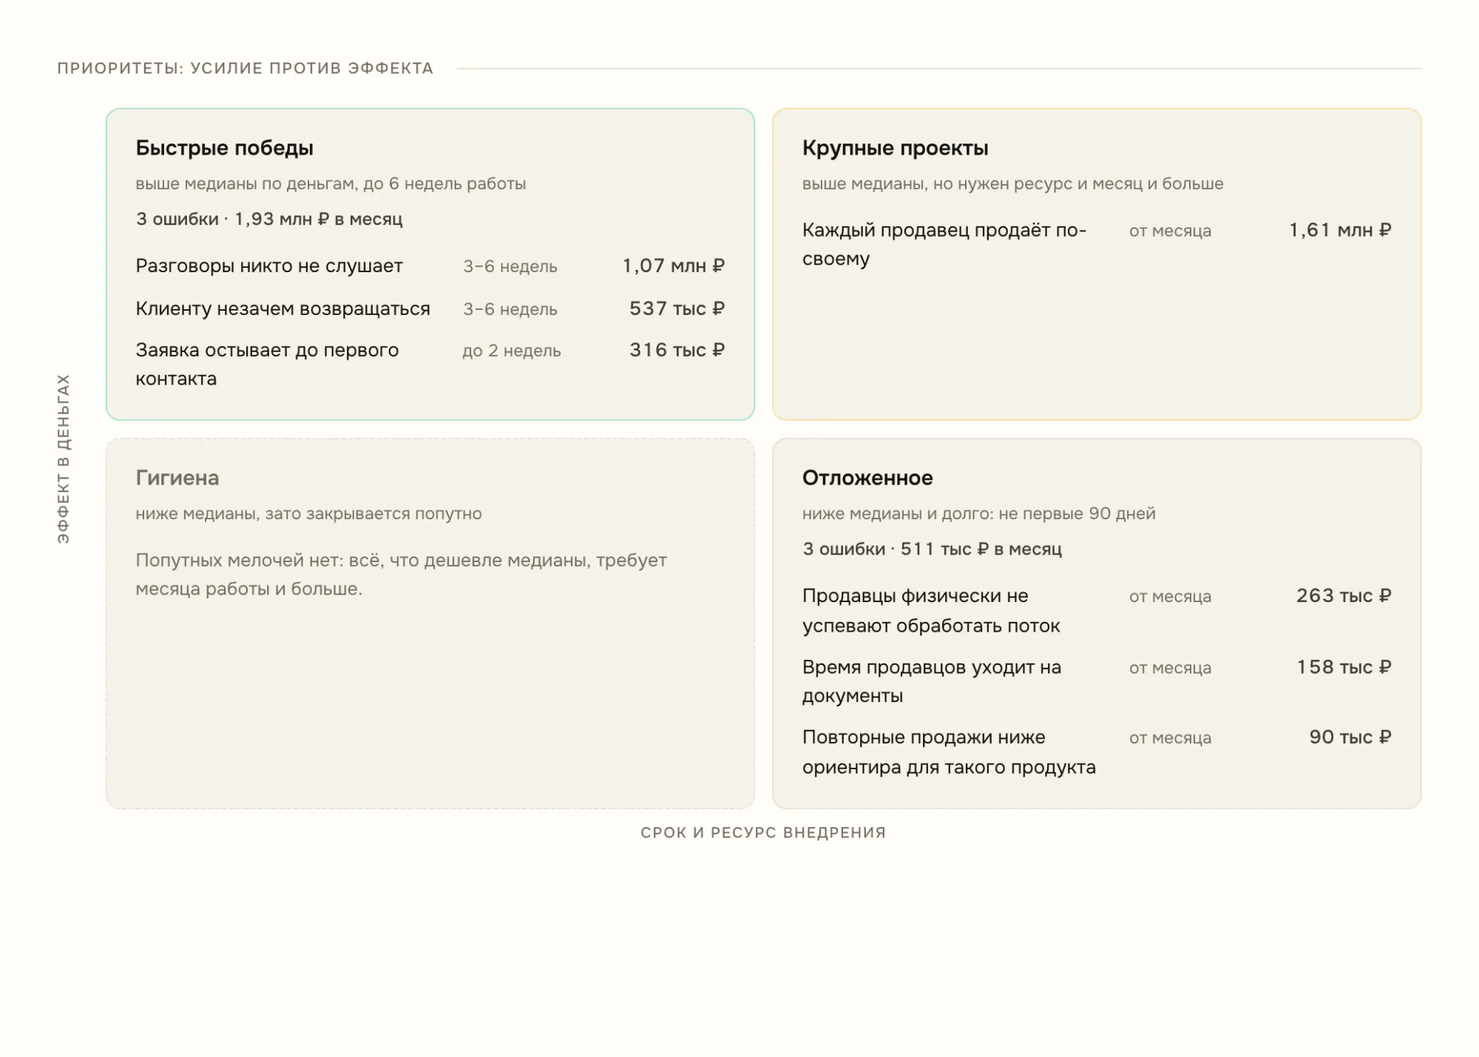
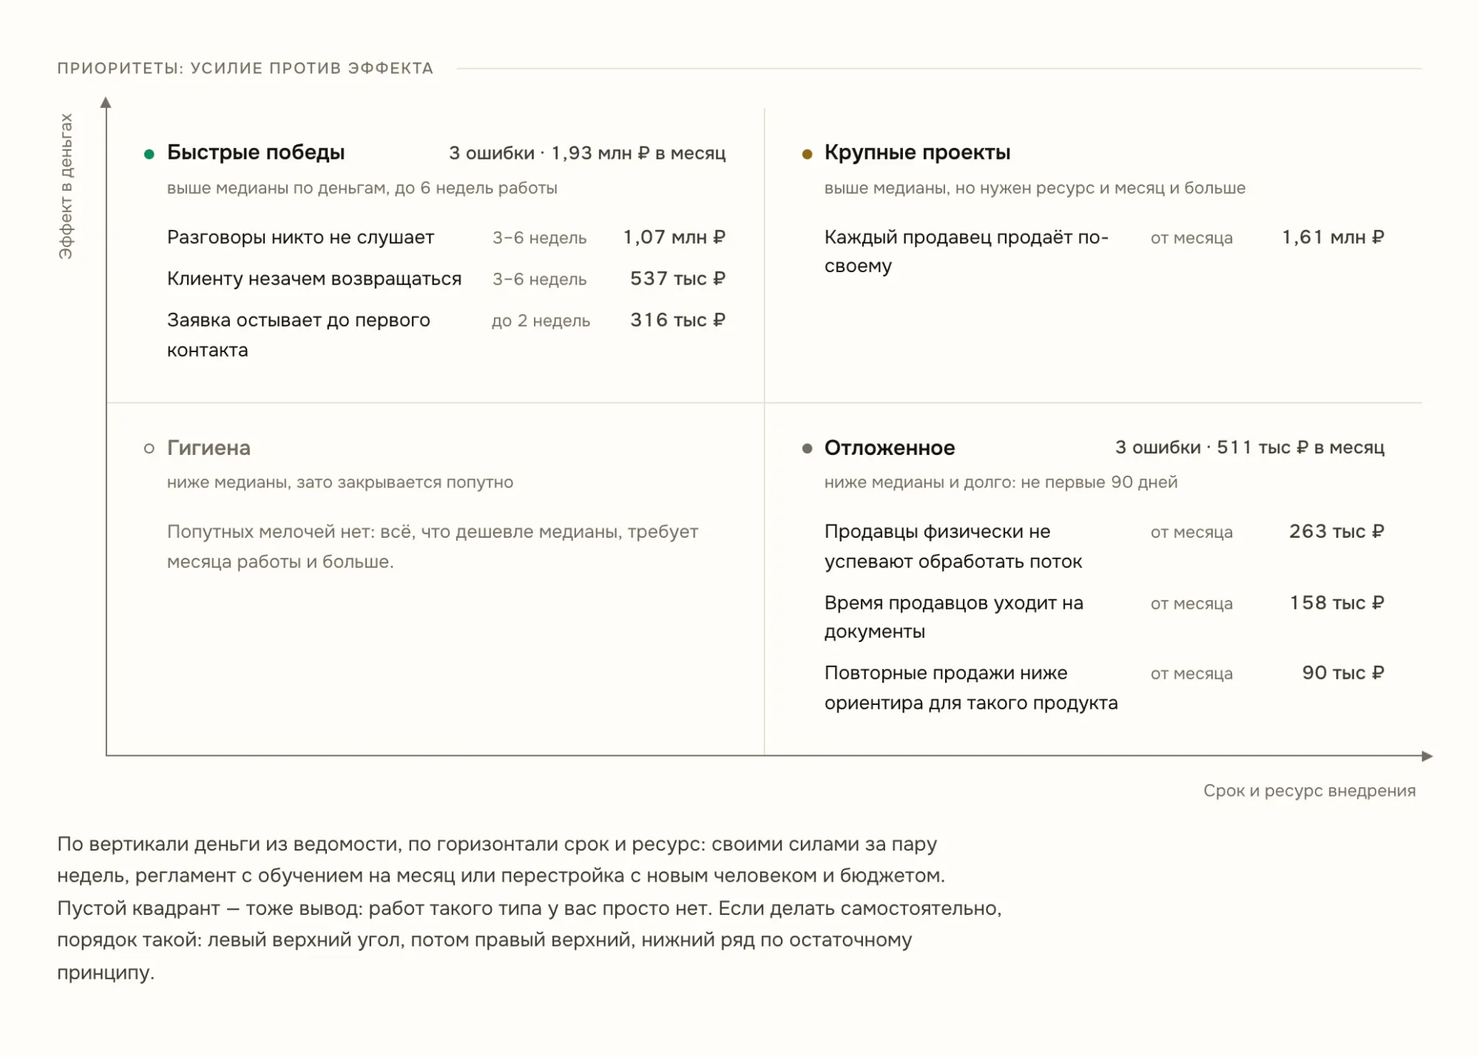
Отчёт МРТ на главной: кадры под телефон, выноски, матрица приоритетов осями
- Телефон: отдельные снимки отчёта на ширине 390 — текст в натуральную величину
- Одна выноска на кадр и подпись под вкладкой: куда смотреть и сколько это стоит
- Матрица в отчёте: оси и крест из линий вместо четырёх цветных коробок
- «Внедрение»: кадр со шкалы недель и начала волн; у первой волны нет «0 ₽»
- «чиним первый контакт, закрытие и повторные продажи» вместо «и … и …»

diff --git a/index.html b/index.html
@@ -650,17 +650,25 @@ main{counter-reset:sec}
 .rpt-nav button:focus-visible{outline:none}
 .rpt-nav button:focus-visible b{text-decoration:underline;text-decoration-thickness:1px;text-underline-offset:5px}
 /* разворот — картинка, а не ссылка: две версии под тему, грузится только видимая */
-.rpt-view{display:grid;align-self:start;margin:0;border:1px solid var(--rule-2);border-radius:16px;overflow:hidden;background:var(--paper)}
-.rpt-view img{grid-area:1/1;display:block;width:100%;height:auto;opacity:0;transition:opacity .45s var(--ease)}
-.rpt-view img.l{display:none}
-html[data-theme="light"] .rpt-view img.d{display:none}
-html[data-theme="light"] .rpt-view img.l{display:block}
-.rpt-view img.is-cur{opacity:1}
+.rpt-view{position:relative;display:grid;align-self:start;margin:0;border:1px solid var(--rule-2);border-radius:16px;overflow:hidden;background:var(--paper)}
+.rpt-view picture{grid-area:1/1;display:block;opacity:0;transition:opacity .45s var(--ease)}
+.rpt-view picture img{display:block;width:100%;height:auto}
+.rpt-view picture.l{display:none}
+html[data-theme="light"] .rpt-view picture.d{display:none}
+html[data-theme="light"] .rpt-view picture.l{display:block}
+.rpt-view picture.is-cur{opacity:1}
+/* выноска: одна на разворот, как на «Технологии»; та же стрелка стоит у подписи активной вкладки */
+.rpt-pin{position:absolute;z-index:2;width:24px;height:24px;margin:-12px 0 0 -12px;border-radius:50%;background:var(--ink);color:var(--bg);font-size:13px;line-height:1;display:flex;align-items:center;justify-content:center;pointer-events:none;opacity:0;transform:scale(.6);transition:opacity .25s var(--ease),transform .4s var(--ease)}
+.rpt-pin.is-cur{opacity:1;transform:none;transition-delay:.25s}
+.rpt-nav button[aria-selected="true"] em::before{content:"→";display:inline-flex;align-items:center;justify-content:center;width:18px;height:18px;margin-right:8px;border-radius:50%;background:var(--ink);color:var(--bg);font-size:11px;vertical-align:1px}
+.rpt-cap{display:none}
 @media(min-width:981px){.rpt{grid-template-columns:25% 75%;gap:0}.rpt-nav{padding-right:var(--cg)}}
+@media(max-width:600px){.rpt-pin{display:none}}
 @media(max-width:980px){
   .rpt-nav{flex-direction:row;gap:8px;overflow-x:auto;border-top:0;scrollbar-width:none}
   .rpt-nav button{flex:none;display:block;border:1px solid var(--rule-2);border-radius:8px;padding:9px 14px}
   .rpt-nav button::after{display:none}
+  .rpt-cap{display:block;margin-top:14px;font-size:14.5px;line-height:1.5;color:var(--ink-2)}
   .rpt-nav button span,.rpt-nav button em{display:none}
   .rpt-nav button[aria-selected="true"]{background:var(--ink);border-color:var(--ink)}
   .rpt-nav button[aria-selected="true"] b{color:var(--bg)}
@@ -836,21 +844,26 @@ html[data-theme="light"] .rpt-view img.l{display:block}
     </div>
     <div class="rpt rv">
       <div class="rpt-nav" id="rptNav" role="tablist" aria-label="Разделы отчёта">
-        <button type="button" role="tab" aria-selected="true" aria-controls="rptView"><span>02</span><b>Резюме</b><em>Главный вывод, недополученная прибыль и сколько вернётся за 90 дней</em></button>
-        <button type="button" role="tab" aria-selected="false" aria-controls="rptView" tabindex="-1"><span>05</span><b>Ведомость потерь</b><em>Где сгорает прибыль, этап за этапом, с арифметикой каждой строки</em></button>
-        <button type="button" role="tab" aria-selected="false" aria-controls="rptView" tabindex="-1"><span>10</span><b>Что делать</b><em>Каждая ошибка разобрана до инструкции и оценена в рублях</em></button>
-        <button type="button" role="tab" aria-selected="false" aria-controls="rptView" tabindex="-1"><span>11</span><b>Внедрение</b><em>90 дней, четыре волны, приёмка по цифрам</em></button>
+        <button type="button" role="tab" aria-selected="true" aria-controls="rptView"><span>02</span><b>Резюме</b><em>Главный вывод одной фразой и цена вопроса: 4,05 млн ₽ в месяц, из них 2,63 млн возвращаются за 90 дней.</em></button>
+        <button type="button" role="tab" aria-selected="false" aria-controls="rptView" tabindex="-1"><span>05</span><b>Ведомость потерь</b><em>Крупнейшая потеря — переговоры и закрытие, 2,69 млн ₽ в месяц. Зелёным — что из неё вернётся за 90 дней.</em></button>
+        <button type="button" role="tab" aria-selected="false" aria-controls="rptView" tabindex="-1"><span>10</span><b>Что делать</b><em>Начинать с быстрых побед: три ошибки на 1,93 млн ₽ в месяц, каждая — до шести недель работы.</em></button>
+        <button type="button" role="tab" aria-selected="false" aria-controls="rptView" tabindex="-1"><span>11</span><b>Внедрение</b><em>Каждая волна принимается по цифрам. Вторая чинит первый контакт, закрытие и повторные продажи: +1,44 млн ₽ в месяц.</em></button>
       </div>
       <div class="rpt-view" id="rptView" role="tabpanel">
-        <img class="d is-cur" data-i="0" src="/media/report-summary-dark.webp" width="2000" height="1429" loading="lazy" alt="Резюме отчёта: главный вывод, недополученная прибыль 4,05 млн ₽ в месяц и потенциал возврата за 90 дней">
-        <img class="l is-cur" data-i="0" src="/media/report-summary-light.webp" width="2000" height="1429" loading="lazy" alt="Резюме отчёта: главный вывод, недополученная прибыль 4,05 млн ₽ в месяц и потенциал возврата за 90 дней">
-        <img class="d" data-i="1" src="/media/report-ledger-dark.webp" width="2000" height="1429" loading="lazy" alt="Ведомость потерь: валовая прибыль по этапам воронки сейчас и при ориентире профиля">
-        <img class="l" data-i="1" src="/media/report-ledger-light.webp" width="2000" height="1429" loading="lazy" alt="Ведомость потерь: валовая прибыль по этапам воронки сейчас и при ориентире профиля">
-        <img class="d" data-i="2" src="/media/report-fix-dark.webp" width="2000" height="1429" loading="lazy" alt="Что делать: ошибки по матрице усилия и эффекта с суммой в рублях">
-        <img class="l" data-i="2" src="/media/report-fix-light.webp" width="2000" height="1429" loading="lazy" alt="Что делать: ошибки по матрице усилия и эффекта с суммой в рублях">
-        <img class="d" data-i="3" src="/media/report-plan-dark.webp" width="2000" height="1429" loading="lazy" alt="Внедрение: 90 дней, четыре волны с приёмкой по критериям">
-        <img class="l" data-i="3" src="/media/report-plan-light.webp" width="2000" height="1429" loading="lazy" alt="Внедрение: 90 дней, четыре волны с приёмкой по критериям">
+        <picture class="d is-cur" data-i="0"><source media="(max-width:600px)" srcset="/media/report-summary-dark-m.webp" width="1170" height="1671"><img src="/media/report-summary-dark.webp" width="2000" height="1429" loading="lazy" alt="Резюме отчёта: главный вывод, недополученная прибыль 4,05 млн ₽ в месяц и потенциал возврата за 90 дней"></picture>
+        <picture class="l is-cur" data-i="0"><source media="(max-width:600px)" srcset="/media/report-summary-light-m.webp" width="1170" height="1671"><img src="/media/report-summary-light.webp" width="2000" height="1429" loading="lazy" alt="Резюме отчёта: главный вывод, недополученная прибыль 4,05 млн ₽ в месяц и потенциал возврата за 90 дней"></picture>
+        <picture class="d" data-i="1"><source media="(max-width:600px)" srcset="/media/report-ledger-dark-m.webp" width="1170" height="1671"><img src="/media/report-ledger-dark.webp" width="2000" height="1429" loading="lazy" alt="Ведомость потерь: валовая прибыль по этапам воронки сейчас и при ориентире профиля"></picture>
+        <picture class="l" data-i="1"><source media="(max-width:600px)" srcset="/media/report-ledger-light-m.webp" width="1170" height="1671"><img src="/media/report-ledger-light.webp" width="2000" height="1429" loading="lazy" alt="Ведомость потерь: валовая прибыль по этапам воронки сейчас и при ориентире профиля"></picture>
+        <picture class="d" data-i="2"><source media="(max-width:600px)" srcset="/media/report-fix-dark-m.webp" width="1170" height="1671"><img src="/media/report-fix-dark.webp" width="2000" height="1429" loading="lazy" alt="Что делать: матрица приоритетов — ошибки по эффекту в деньгах и сроку внедрения"></picture>
+        <picture class="l" data-i="2"><source media="(max-width:600px)" srcset="/media/report-fix-light-m.webp" width="1170" height="1671"><img src="/media/report-fix-light.webp" width="2000" height="1429" loading="lazy" alt="Что делать: матрица приоритетов — ошибки по эффекту в деньгах и сроку внедрения"></picture>
+        <picture class="d" data-i="3"><source media="(max-width:600px)" srcset="/media/report-plan-dark-m.webp" width="1170" height="1671"><img src="/media/report-plan-dark.webp" width="2000" height="1429" loading="lazy" alt="Внедрение: 12 недель, четыре волны, приёмка каждой по критериям"></picture>
+        <picture class="l" data-i="3"><source media="(max-width:600px)" srcset="/media/report-plan-light-m.webp" width="1170" height="1671"><img src="/media/report-plan-light.webp" width="2000" height="1429" loading="lazy" alt="Внедрение: 12 недель, четыре волны, приёмка каждой по критериям"></picture>
+        <span class="rpt-pin is-cur" data-i="0" style="left:2.12%;top:62.91%" aria-hidden="true">→</span>
+        <span class="rpt-pin" data-i="1" style="left:44.06%;top:38.59%" aria-hidden="true">→</span>
+        <span class="rpt-pin" data-i="2" style="left:28.57%;top:14.54%" aria-hidden="true">→</span>
+        <span class="rpt-pin" data-i="3" style="left:75.46%;top:55.5%" aria-hidden="true">→</span>
       </div>
+      <p class="rpt-cap" id="rptCap">Главный вывод одной фразой и цена вопроса: 4,05 млн ₽ в месяц, из них 2,63 млн возвращаются за 90 дней.</p>
     </div>
     <div class="snap-foot rv">
       <p>Пример на демо-данных: компания «Демо-Опт» выдуманная, цифры собраны для показа. На вашем МРТ каждая строка считается по вашим данным.</p>
@@ -1213,8 +1226,8 @@ html[data-theme="light"] .rpt-view img.l{display:block}
   /* отчёт МРТ: разделы-вкладки, стрелки переключают; у каждого раздела две картинки — ночная и дневная */
   (function(){
     var nav=document.getElementById('rptNav');if(!nav)return;
-    var tabs=$$('button',nav),imgs=$$('#rptView img');
-    function sel(i,focus){tabs.forEach(function(t,k){t.setAttribute('aria-selected',String(k===i));t.tabIndex=k===i?0:-1;});imgs.forEach(function(im){im.classList.toggle('is-cur',+im.dataset.i===i);});if(focus)tabs[i].focus();}
+    var tabs=$$('button',nav),pics=$$('#rptView picture, #rptView .rpt-pin'),cap=document.getElementById('rptCap');
+    function sel(i,focus){tabs.forEach(function(t,k){t.setAttribute('aria-selected',String(k===i));t.tabIndex=k===i?0:-1;});pics.forEach(function(p){p.classList.toggle('is-cur',+p.dataset.i===i);});if(cap)cap.textContent=tabs[i].querySelector('em').textContent;if(focus)tabs[i].focus();}
     tabs.forEach(function(t,i){
       t.addEventListener('click',function(){sel(i);});
       t.addEventListener('keydown',function(e){var d=(e.key==='ArrowDown'||e.key==='ArrowRight')?1:(e.key==='ArrowUp'||e.key==='ArrowLeft')?-1:0;if(!d)return;e.preventDefault();sel((i+d+tabs.length)%tabs.length,true);});

diff --git a/diagnostic/index.html b/diagnostic/index.html
@@ -809,27 +809,34 @@ body:not(.cl-unlocked) .gate{display:grid}
 .fx-top-op{flex:0 0 26px;display:flex;align-items:center;justify-content:center;color:var(--ink-3);font-size:14px}
 @media(max-width:900px){.fx-tree{flex-direction:column}.fx-top-op{flex:none;height:22px}}
 
-/* матрица приоритетов */
-.fx-prio{display:grid;grid-template-columns:22px minmax(0,1fr);grid-template-rows:auto 22px;gap:12px}
-.fx-prio-y{grid-row:1;writing-mode:vertical-rl;transform:rotate(180deg);text-align:center;font:500 10.5px/1 var(--ui);letter-spacing:.09em;text-transform:uppercase;color:var(--ink-3)}
-.fx-prio-x{grid-column:2;text-align:center;font:500 10.5px/1 var(--ui);letter-spacing:.09em;text-transform:uppercase;color:var(--ink-3)}
-.fx-prio-g{display:grid;grid-template-columns:minmax(0,1fr) minmax(0,1fr);gap:12px}
-.fx-pq{border:1px solid var(--rule);border-radius:10px;padding:18px 20px;background:var(--paper);min-height:132px}
-.fx-pq.q1{border-color:rgba(52,211,153,.42)}
-.fx-pq.q2{border-color:rgba(251,191,36,.34)}
-.fx-pq-h{margin-bottom:14px}
-.fx-pq-h b{display:block;font:600 15px/1.3 var(--ui);color:#fff}
-.fx-pq-h span{display:block;font-size:12px;line-height:1.5;color:var(--ink-3);margin-top:5px}
-.fx-pq ul{list-style:none;margin:0;padding:0;display:grid;gap:9px}
-.fx-pq li{display:grid;grid-template-columns:minmax(0,1fr) 84px 88px;gap:12px;align-items:baseline;font-size:13.5px;line-height:1.5;color:var(--ink)}
+/* матрица приоритетов: настоящие 2×2 — две оси и крест из линий, без коробок; цвет только у метки квадранта */
+.fx-prio{display:grid;grid-template-columns:22px minmax(0,1fr);grid-template-rows:auto 30px;column-gap:12px}
+.fx-prio-y{grid-row:1;writing-mode:vertical-rl;transform:rotate(180deg);text-align:end;padding-bottom:4px;font:400 12px/1 var(--ui);color:var(--ink-3)}
+.fx-prio-x{grid-column:2;align-self:end;text-align:right;padding-right:4px;font:400 12px/1 var(--ui);color:var(--ink-3)}
+.fx-prio-g{position:relative;display:grid;grid-template-columns:minmax(0,1fr) minmax(0,1fr);border-left:1px solid var(--ink-3);border-bottom:1px solid var(--ink-3)}
+.fx-prio-g::before{content:"";position:absolute;left:-5px;top:-8px;border:4.5px solid transparent;border-top:0;border-bottom:8px solid var(--ink-3)}
+.fx-prio-g::after{content:"";position:absolute;right:-8px;bottom:-5px;border:4.5px solid transparent;border-right:0;border-left:8px solid var(--ink-3)}
+.fx-pq{padding:22px 26px 26px;min-height:132px}
+.fx-pq.q1,.fx-pq.q3{border-right:1px solid var(--rule)}
+.fx-pq.q1,.fx-pq.q2{border-bottom:1px solid var(--rule)}
+.fx-pq-h{display:grid;grid-template-columns:minmax(0,1fr) auto;column-gap:16px;align-items:baseline;margin-bottom:16px}
+.fx-pq-h b{display:flex;align-items:center;gap:9px;font:600 15px/1.3 var(--ui);color:#fff}
+.fx-pq-h b::before{content:"";flex:none;width:7px;height:7px;border-radius:50%;background:var(--ink-3)}
+.fx-pq.q1 .fx-pq-h b::before{background:var(--ok)}
+.fx-pq.q2 .fx-pq-h b::before{background:var(--warn)}
+.fx-pq-h em{grid-column:2;grid-row:1;font-style:normal;font:500 13px/1.3 var(--ui);color:var(--ink-2);white-space:nowrap;font-variant-numeric:tabular-nums}
+.fx-pq-h span{grid-column:1/-1;display:block;font-size:12px;line-height:1.5;color:var(--ink-3);margin:5px 0 0 16px}
+.fx-pq ul{list-style:none;margin:0 0 0 16px;padding:0;display:grid;gap:9px}
+.fx-pq li{display:grid;grid-template-columns:minmax(0,1fr) 72px 80px;gap:12px;align-items:baseline;font-size:13.5px;line-height:1.5;color:var(--ink)}
 .fx-pq li i{font-style:normal;font-size:12px;color:var(--ink-3);white-space:nowrap}
 .fx-pq li b{font-weight:500;color:var(--ink-2);white-space:nowrap;font-variant-numeric:tabular-nums;text-align:right}
-.fx-pq-h em{display:block;font-style:normal;font:500 12.5px/1.4 var(--ui);color:var(--ink-2);margin-top:8px;font-variant-numeric:tabular-nums}
-.fx-pq.off{border-style:dashed;border-color:var(--rule)}
 .fx-pq.off .fx-pq-h b{color:var(--ink-3)}
-.fx-pq-none{font-size:13px;line-height:1.55;color:var(--ink-3);max-width:44ch}
+.fx-pq.off .fx-pq-h b::before{background:none;box-shadow:inset 0 0 0 1px var(--ink-3)}
+.fx-pq-none{font-size:13px;line-height:1.55;color:var(--ink-3);max-width:44ch;margin:0 0 0 16px}
 @media(max-width:560px){.fx-pq li{grid-template-columns:minmax(0,1fr) auto;gap:4px 12px}.fx-pq li i{grid-column:1/-1;order:3}}
-@media(max-width:820px){.fx-prio{grid-template-columns:minmax(0,1fr);grid-template-rows:auto auto}.fx-prio-y{display:none}.fx-prio-x{grid-column:1}.fx-prio-g{grid-template-columns:minmax(0,1fr)}}
+@media(max-width:820px){.fx-prio{grid-template-columns:minmax(0,1fr);grid-template-rows:auto}.fx-prio-y,.fx-prio-x{display:none}
+  .fx-prio-g{grid-template-columns:minmax(0,1fr);border:0;border-top:1px solid var(--rule)}.fx-prio-g::before,.fx-prio-g::after{display:none}
+  .fx-pq{min-height:0;padding:20px 0;border-right:0!important;border-bottom:1px solid var(--rule)}}
 
 /* разбор ошибок */
 .fx-fixes{display:grid;gap:18px}
@@ -4175,7 +4182,7 @@ const Waves = {
     const effNote = n => {
       const names = {contact:'первый контакт', close:'закрытие', repeat:'повторные продажи', price:'цену', lead:'поток заявок'};
       const on = [...new Set(dr(n).map(d => names[d.stage]))];
-      return on.length ? 'за счёт того, что чиним ' + on.join(' и ') : '';
+      return on.length ? 'за счёт того, что чиним ' + (on.length > 1 ? on.slice(0, -1).join(', ') + ' и ' + on[on.length - 1] : on[0]) : '';
     };
 
     W.push({n:1, wk:[1,2], title:'Архитектура и P&L-модель',
@@ -5216,7 +5223,7 @@ const Final = {
       ${W.map(w => `<div class="fx-wl"><b>0${w.n}</b>${w.title.split(':')[0]}</div><div class="fx-gcell"><div class="fx-gbar" style="grid-column:${w.wk[0]} / ${w.wk[1] + 1}"><span>недели ${w.wk[0]}–${w.wk[1]}</span></div></div>`).join('')}</div>
       <div class="fx-gleg"><i></i>приёмка волны по критериям</div>`;
     const card = w => `<div class="fx-wave">
-      <div class="fx-wtop"><div class="fx-wno"><b>Волна ${w.n}</b> · недели ${w.wk[0]}–${w.wk[1]}</div><div class="fx-weff">${w.eff > 0 ? `<b>+${Fx.money(w.eff)}</b><span>в месяц</span>` : '<b class="zero">0 ₽</b>'}</div></div>
+      <div class="fx-wtop"><div class="fx-wno"><b>Волна ${w.n}</b> · недели ${w.wk[0]}–${w.wk[1]}</div><div class="fx-weff">${w.eff > 0 ? `<b>+${Fx.money(w.eff)}</b><span>в месяц</span>` : ''}</div></div>
       <h4>${w.title}</h4><p class="fx-wgoal">${w.goal}</p>
       <div class="fx-effnote">${w.eff > 0 ? `Эффект после приёмки: <b>+${Fx.money(w.eff)} валовой прибыли в месяц</b>${w.effNote ? ', ' + w.effNote : ''}.` : `Эффект: ${w.effNote}.`}</div>
       <div class="fx-blk"><span class="fx-k">Что делаем</span><ul class="fx-tasks">${w.tasks.map(t => `<li>${t}</li>`).join('')}</ul></div>
